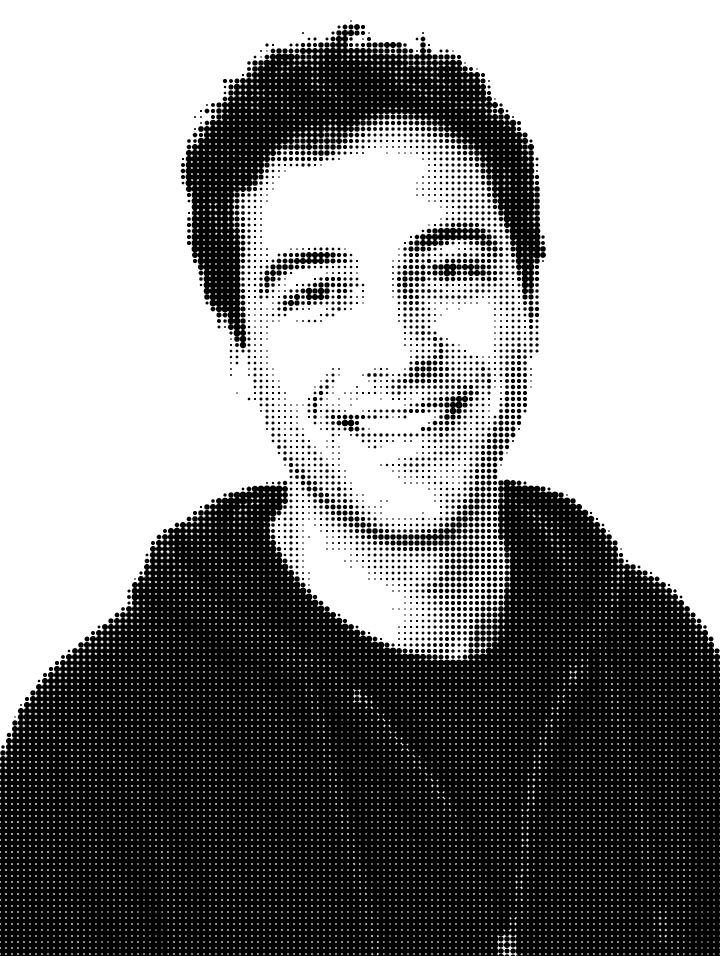
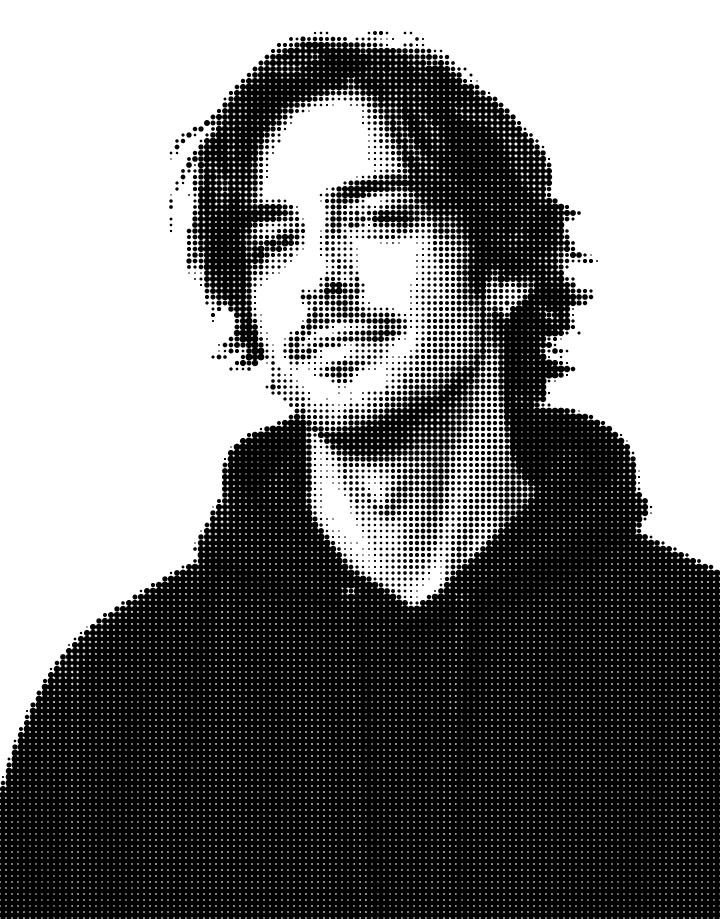
The ex-skater: shaggy hair, hoop earring, and an easy smirk
New character in the same black hoodie, run through the same fine
halftone pipeline. Thumbnail recaptured.

Changed region(s): [[0.0, 0.0305, 1.0, 1.0]]

diff --git a/files/resources/views/components/sections/masthead.blade.php b/files/resources/views/components/sections/masthead.blade.php
@@ -44,7 +44,7 @@
             @if ($showPortrait)
                 <!-- The portrait graphic: a halftone duotone on transparency whose shoulders fade into the canvas. Pure black dots read as ink in light mode; dark inverts them to white, so one file serves both themes. -->
                 <div data-reveal class="reveal-1 max-lg:order-first lg:justify-self-end">
-                    <img src="{{ $portrait }}" alt="{{ $portraitAlt }}" width="720" height="956" class="portrait-fade h-auto w-60 dark:invert sm:w-72 lg:w-88">
+                    <img src="{{ $portrait }}" alt="{{ $portraitAlt }}" width="720" height="919" class="portrait-fade h-auto w-60 dark:invert sm:w-72 lg:w-88">
                 </div>
             @endif
         </div>
